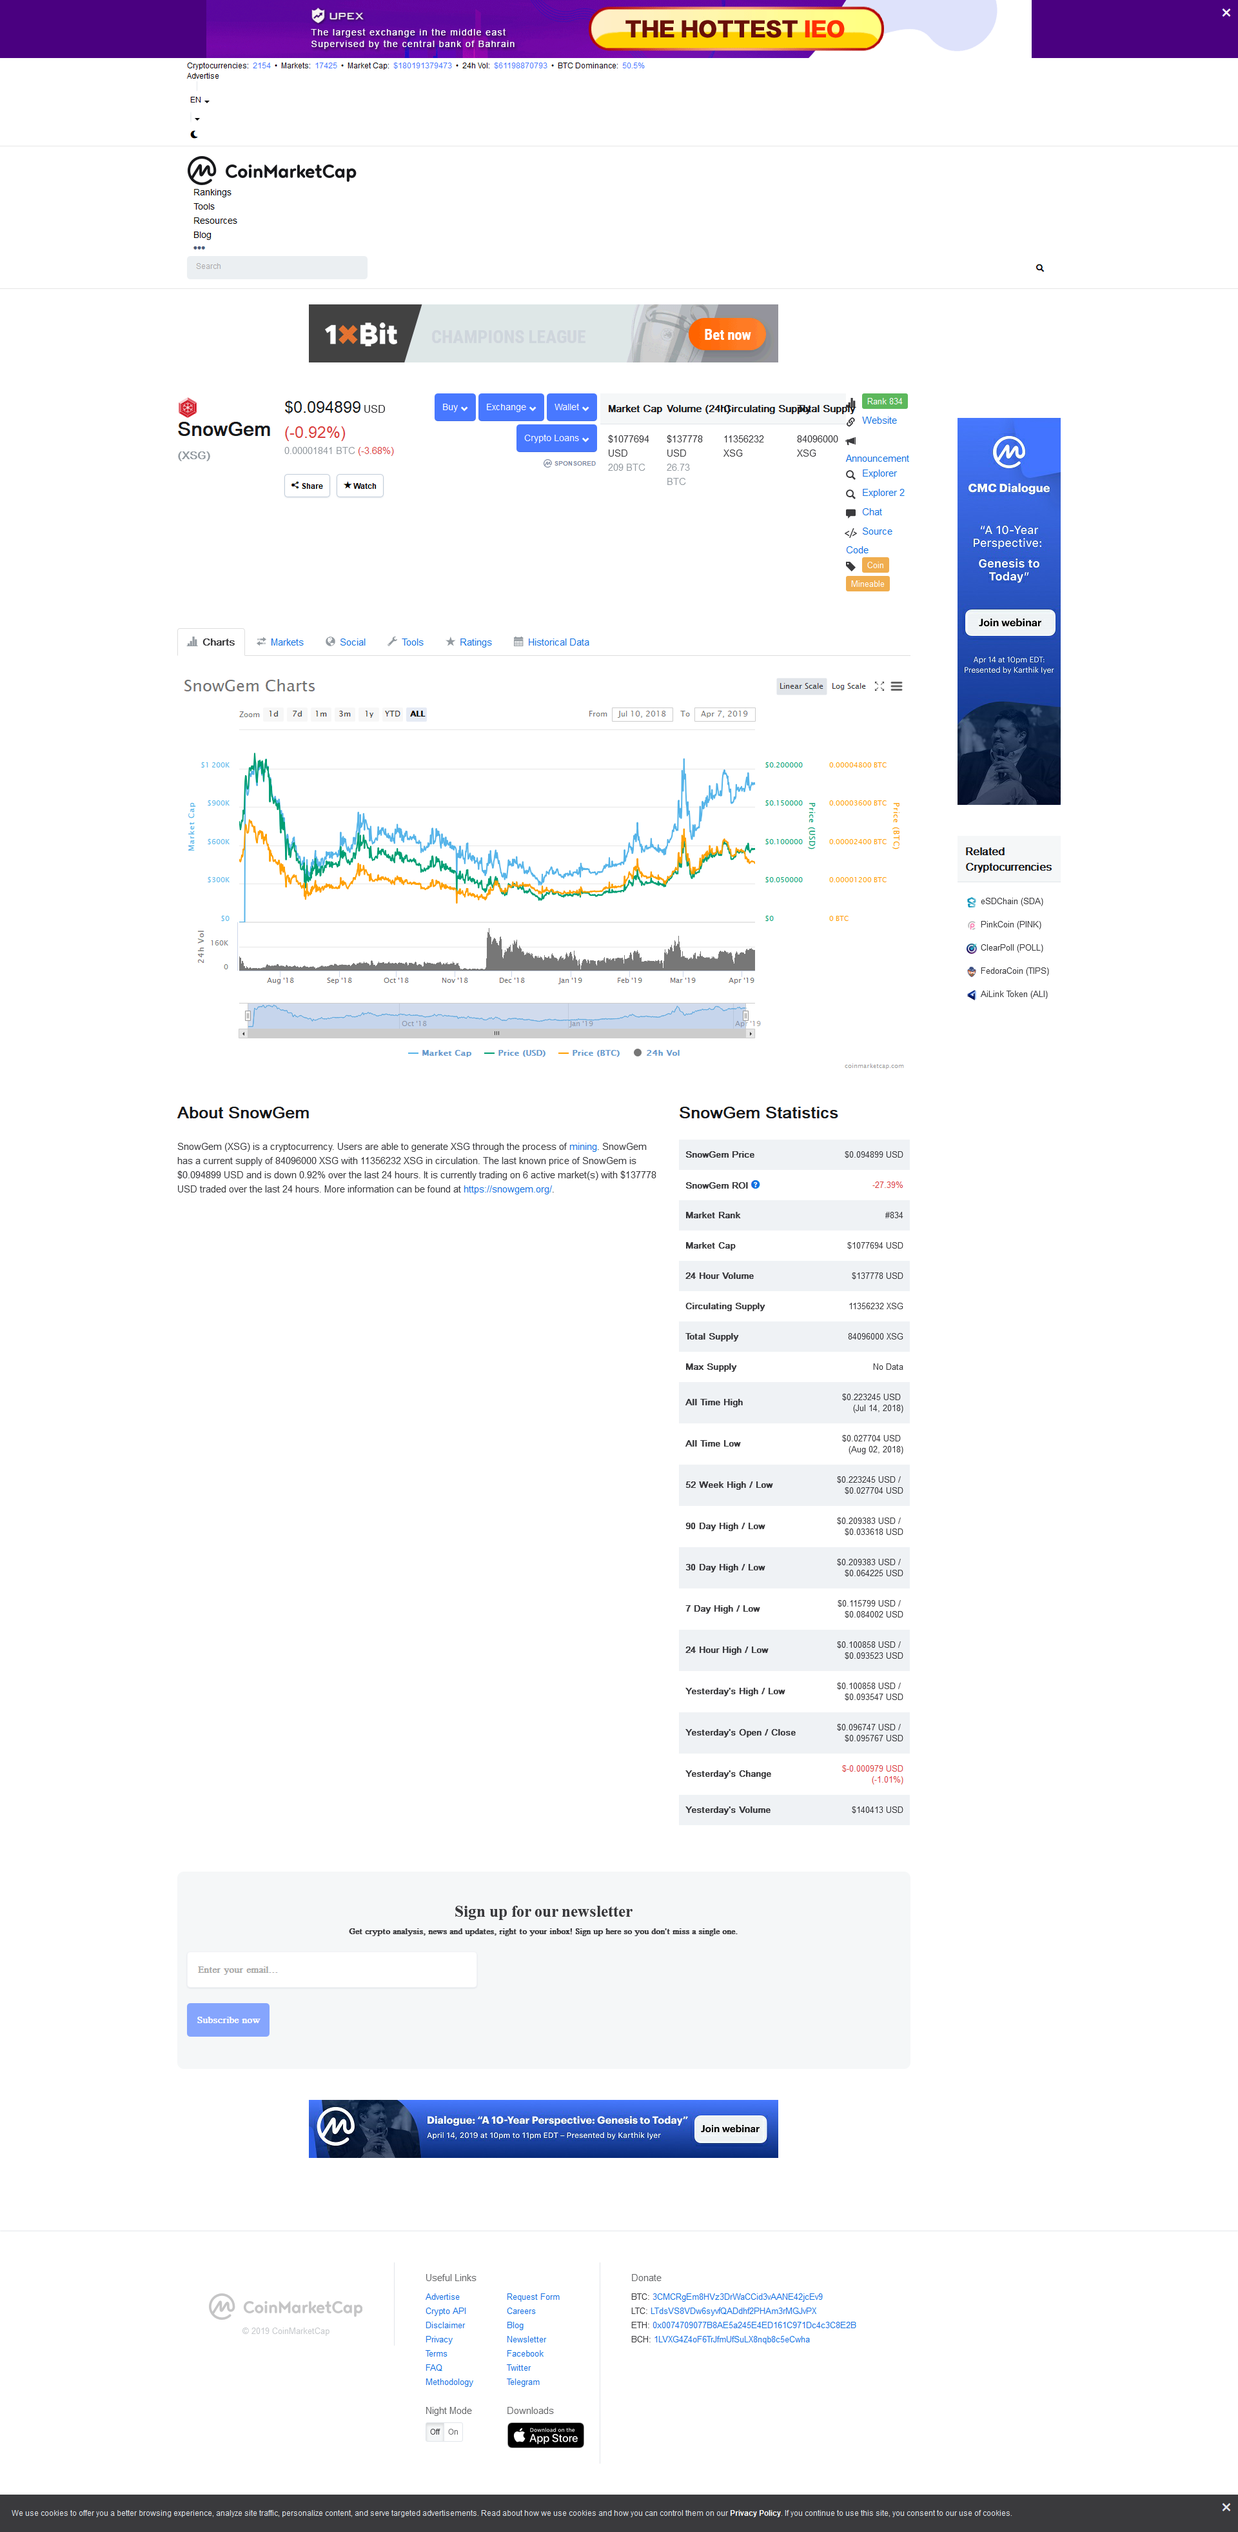
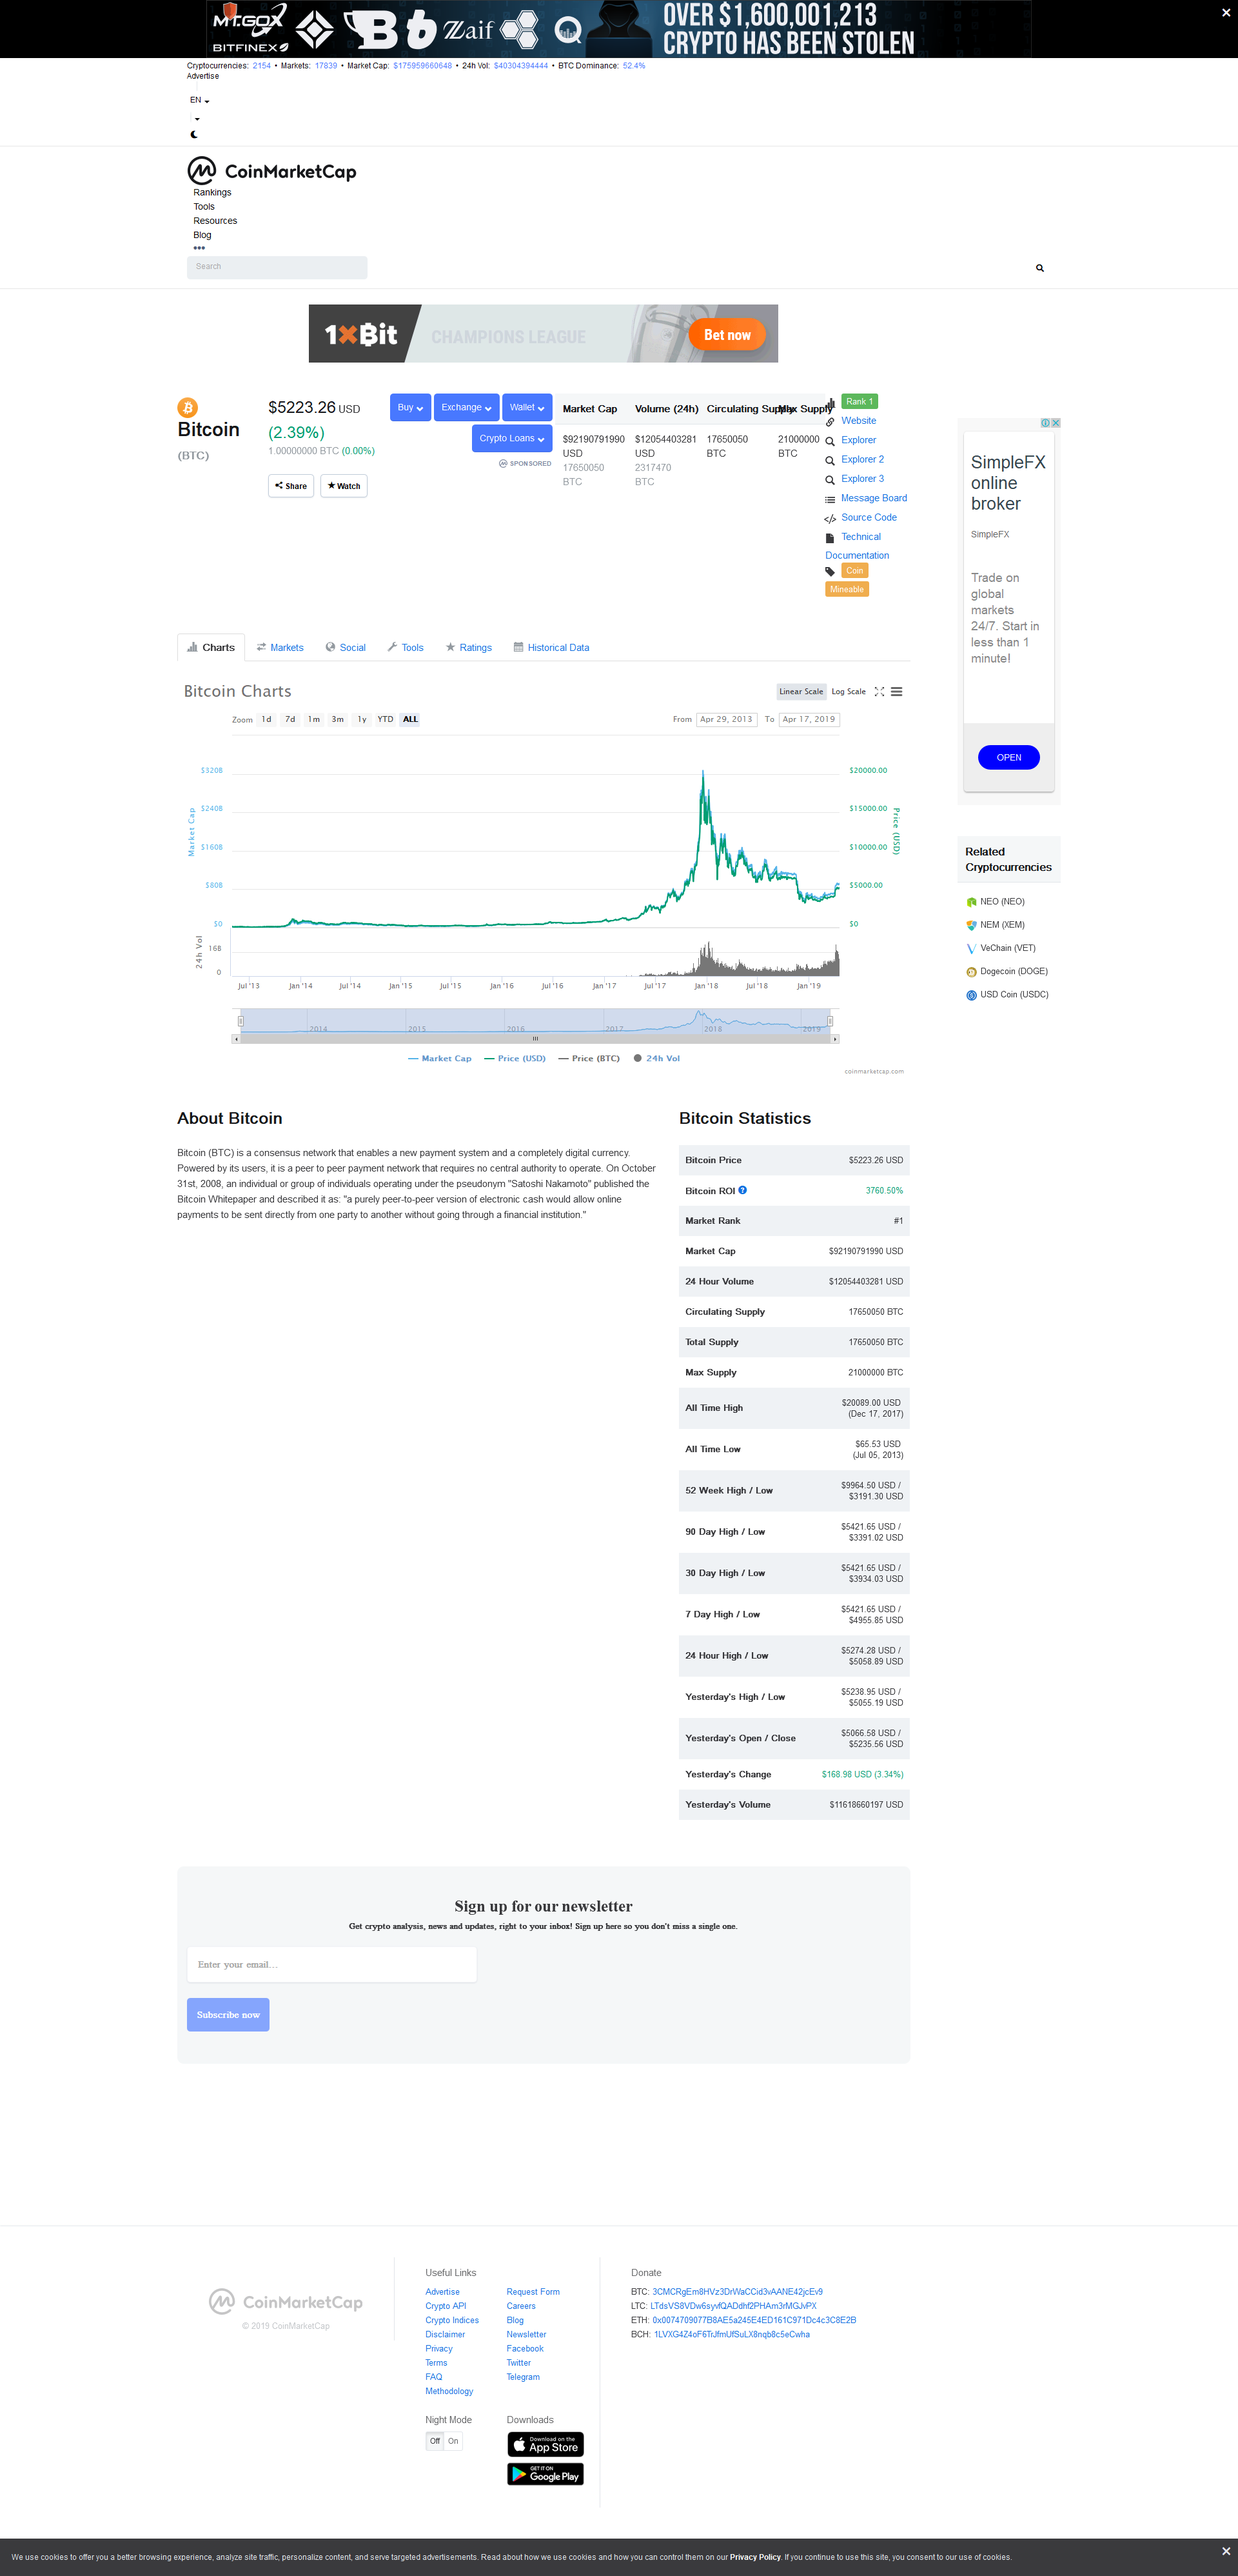
update bch

diff --git a/index.js b/index.js
@@ -1,7 +1,7 @@
 const fs = require('fs')
 var request = require('request')
 const phantom = require('phantom');
-
+var isRunning = false
 var mainfile = "/var/www/html/rates/index.html"
 var supply = "/var/www/html/rates/supply"
 var marketcap = "/var/www/html/rates/marketcap"
@@ -19,7 +19,8 @@ var priceChangeLoc = "/var/www/html/rates/pricechange"
 
 var usdUrl = "http://www.floatrates.com/daily/usd.json"
 var xsgUrl = "https://coinmarketcap.com/currencies/snowgem/"
-var btcUrl = "https://coinmarketcap.com/currencies/snowgem/"
+var btcUrl = "https://coinmarketcap.com/currencies/bitcoin/"
+var bchUrl = "https://coinmarketcap.com/currencies/bitcoin-cash/"
 
 function curlData(urlRequest, params){
   return new Promise(function(resolve){
@@ -52,6 +53,7 @@ function formatNumber(num) {
 }
 
 async function getWebsiteContent(url, id, classname, cb){
+  var data = {}
   try
   {
     var driver = await phantom.create();
@@ -94,92 +96,118 @@ async function getWebsiteContent(url, id, classname, cb){
   catch(ex)
   {
     console.log(ex)
-    await driver.exit();
     cb(data)
   }
 }
 
 function parseData(data){
   var rtn = {}
-  var index = data.findIndex(function(e){return e.toLowerCase().includes('price')})
-  rtn.price = parseFloat(data[index].split('|')[1].split(' ')[0].split('$')[1])
-  index = data.findIndex(function(e){return e.toLowerCase().includes('market cap')})
-  rtn.marketcap = parseFloat(data[index].split('|')[1].split(' ')[0].split('$')[1])
-  index = data.findIndex(function(e){return e.toLowerCase().includes('24 hour volume')})
-  rtn.volume24h = parseFloat(data[index].split('|')[1].split(' ')[0].split('$')[1])
-  index = data.findIndex(function(e){return e.toLowerCase().includes('circulating supply')})
-  rtn.circulating = parseFloat(data[index].split('|')[1].split(' ')[0])
-  index = data.findIndex(function(e){return e.toLowerCase().includes("yesterday's change")})
-  rtn.change = parseFloat(data[index].split('|')[1].split('(')[1].split(')')[0])
+  try
+  {
+    var index = data.findIndex(function(e){return e.toLowerCase().includes('price')})
+    rtn.price = parseFloat(data[index].split('|')[1].split(' ')[0].split('$')[1])
+    index = data.findIndex(function(e){return e.toLowerCase().includes('market cap')})
+    rtn.marketcap = parseFloat(data[index].split('|')[1].split(' ')[0].split('$')[1])
+    index = data.findIndex(function(e){return e.toLowerCase().includes('24 hour volume')})
+    rtn.volume24h = parseFloat(data[index].split('|')[1].split(' ')[0].split('$')[1])
+    index = data.findIndex(function(e){return e.toLowerCase().includes('circulating supply')})
+    rtn.circulating = parseFloat(data[index].split('|')[1].split(' ')[0])
+    index = data.findIndex(function(e){return e.toLowerCase().includes("yesterday's change")})
+    rtn.change = parseFloat(data[index].split('|')[1].split('(')[1].split(')')[0])
+  }
+  catch(ex){}
   return rtn
 }
 
 function createData(){
+  console.log("getting data")
   try
   {
     getWebsiteContent(xsgUrl, undefined, 'cmc-cc-summary-table', function(dataXSG){
+      dataXSG = parseData(dataXSG)
+      console.log(dataXSG)
       getWebsiteContent(btcUrl, undefined, 'cmc-cc-summary-table', function(dataBTC){
-        dataXSG = parseData(dataXSG)
         dataBTC = parseData(dataBTC)
-        console.log(dataXSG)
         console.log(dataBTC)
-        //Circulating supply
-        fs.writeFileSync(supply, formatNumber(parseFloat(dataXSG.circulating.toFixed(2))))
+        getWebsiteContent(bchUrl, undefined, 'cmc-cc-summary-table', async function(dataBCH){
+          dataBCH = parseData(dataBCH)
+          console.log(dataBCH)
+          //Circulating supply
+          fs.writeFileSync(supply, formatNumber(parseFloat(dataXSG.circulating.toFixed(2))))
 
-        //Market cap
-        fs.writeFileSync(marketcap, formatNumber(parseFloat((dataXSG.circulating * dataXSG.price).toFixed(2))))
+          //Market cap
+          fs.writeFileSync(marketcap, formatNumber(parseFloat((dataXSG.circulating * dataXSG.price).toFixed(2))))
 
-        getUSD(function cb(data){
-          // data = JSON.parse(JSON.stringify(data).replace('\"', '"'))
-          // fs.writeFileSync("data.txt", JSON.stringify(data, null, 2))
-          // var usdeur = data.result.eur.rate
-          // var usdrub = data.result.rub.rate
-          // var usdgbp = data.result.gbp.rate
-          data = JSON.parse(data.result)
-          var usdeur = data.eur.rate
-          var usdrub = data.rub.rate
-          var usdgbp = data.gbp.rate
-          
-          var result = []
-          var btcJson = {}
-          btcJson.code = "BTC"
-          btcJson.symbol = "฿"
-          btcJson.name = "Bitcoin"
-          btcJson.rate = parseFloat((dataXSG.price /dataBTC.price).toFixed(8))
+          getUSD(function cb(data){
+            // data = JSON.parse(JSON.stringify(data).replace('\"', '"'))
+            // fs.writeFileSync("data.txt", JSON.stringify(data, null, 2))
+            // var usdeur = data.result.eur.rate
+            // var usdrub = data.result.rub.rate
+            // var usdgbp = data.result.gbp.rate
+            data = JSON.parse(data.result)
+            var usdeur = data.eur.rate
+            var usdrub = data.rub.rate
+            var usdgbp = data.gbp.rate
+            
+            var result = []
 
-          var usdJson = {}
-          usdJson.code = "USD"
-          usdJson.symbol = "$"
-          usdJson.name = "US Dollar"
-          usdJson.rate = parseFloat(dataXSG.price.toFixed(3))
-          usdJson.pricechange = dataXSG.change
+            var btcJson = {}
+            btcJson.code = "BTC"
+            btcJson.symbol = "฿"
+            btcJson.name = "Bitcoin"
+            btcJson.rate = 1
 
-          var eurJson = {}
-          eurJson.code = "EUR"
-          eurJson.symbol = "€"
-          eurJson.name = "Euro"
-          eurJson.rate = parseFloat((dataXSG.price * usdeur).toFixed(3))
+            var xsgJson = {}
+            xsgJson.code = "XSG"
+            xsgJson.name = "SnowGem"
+            xsgJson.rate = parseFloat(dataBTC.price / dataXSG.price).toFixed(2)
+            xsgJson.price = parseFloat(dataXSG.price).toFixed(3)
+            xsgJson.pricechange = dataXSG.change
+            xsgJson.marketcap = dataXSG.marketcap
+            xsgJson.volume24h = dataXSG.volume24h
+            xsgJson.circulating = dataXSG.circulating
 
-          var rubJson = {}
-          rubJson.code = "RUB"
-          rubJson.symbol = "₽"
-          rubJson.name = "Russian Rouble"
-          rubJson.rate = parseFloat((dataXSG.price * usdrub).toFixed(3))
+            var bchJson = {}
+            bchJson.code = "BCH"
+            bchJson.name = "Bitcoin Cash"
+            bchJson.rate = parseFloat(dataBTC.price / dataBCH.price).toFixed(2)
 
-          var gbpJson = {}
-          gbpJson.code = "GBP"
-          gbpJson.symbol = "£"
-          gbpJson.name = "U.K. Pound Sterling"
-          gbpJson.rate = parseFloat((dataXSG.price * usdgbp).toFixed(3))
+            var usdJson = {}
+            usdJson.code = "USD"
+            usdJson.symbol = "$"
+            usdJson.name = "US Dollar"
+            usdJson.rate = parseFloat(dataBTC.price.toFixed(2))
 
-          result.push(btcJson)
-          result.push(usdJson)
-          result.push(eurJson)
-          result.push(rubJson)
-          result.push(gbpJson)
+            var eurJson = {}
+            eurJson.code = "EUR"
+            eurJson.symbol = "€"
+            eurJson.name = "Euro"
+            eurJson.rate = parseFloat(dataBTC.price * usdeur).toFixed(3)
 
-          fs.writeFileSync(mainfile, JSON.stringify(result))
-        })
+            var rubJson = {}
+            rubJson.code = "RUB"
+            rubJson.symbol = "₽"
+            rubJson.name = "Russian Rouble"
+            rubJson.rate = parseFloat(dataBTC.price * usdrub).toFixed(3)
+
+            var gbpJson = {}
+            gbpJson.code = "GBP"
+            gbpJson.symbol = "£"
+            gbpJson.name = "U.K. Pound Sterling"
+            gbpJson.rate = parseFloat(dataBTC.price * usdgbp).toFixed(3)
+
+            result.push(btcJson)
+            result.push(xsgJson)
+            result.push(bchJson)
+            result.push(usdJson)
+            result.push(eurJson)
+            result.push(rubJson)
+            result.push(gbpJson)
+
+            fs.writeFileSync(mainfile, JSON.stringify(result))
+            isRunning = false
+          })
+        }).catch(console.error)
       }).catch(console.error)
     }).catch(console.error)
   }
@@ -187,7 +215,16 @@ function createData(){
 }
 
 setInterval(() => {
-  createData()
+  if(!isRunning)
+  {
+    isRunning = true
+    createData()
+  }
+  else
+  {
+    console.log("is running")
+  }
+  console.log("sleep 20s")
 }, 20000);
 
 

diff --git a/index.html b/index.html
@@ -1,1 +1,1 @@
-[{"code":"BTC","symbol":"฿","name":"Bitcoin","rate":0.00001839},{"code":"USD","symbol":"$","name":"US Dollar","rate":0.095,"pricechange":-1.01},{"code":"EUR","symbol":"€","name":"Euro","rate":0.084},{"code":"RUB","symbol":"₽","name":"Russian Rouble","rate":6.2},{"code":"GBP","symbol":"£","name":"U.K. Pound Sterling","rate":0.073}]
+[{"code":"BTC","symbol":"฿","name":"Bitcoin","rate":1},{"code":"XSG","name":"SnowGem","rate":"59493.48","price":"0.088","pricechange":-2.68,"marketcap":996790,"volume24h":153568,"circulating":11356232},{"code":"BCH","name":"Bitcoin Cash","rate":"16.79"},{"code":"USD","symbol":"$","name":"US Dollar","rate":5222.04},{"code":"EUR","symbol":"€","name":"Euro","rate":"4620.214"},{"code":"RUB","symbol":"₽","name":"Russian Rouble","rate":"335497.188"},{"code":"GBP","symbol":"£","name":"U.K. Pound Sterling","rate":"3995.714"}]
